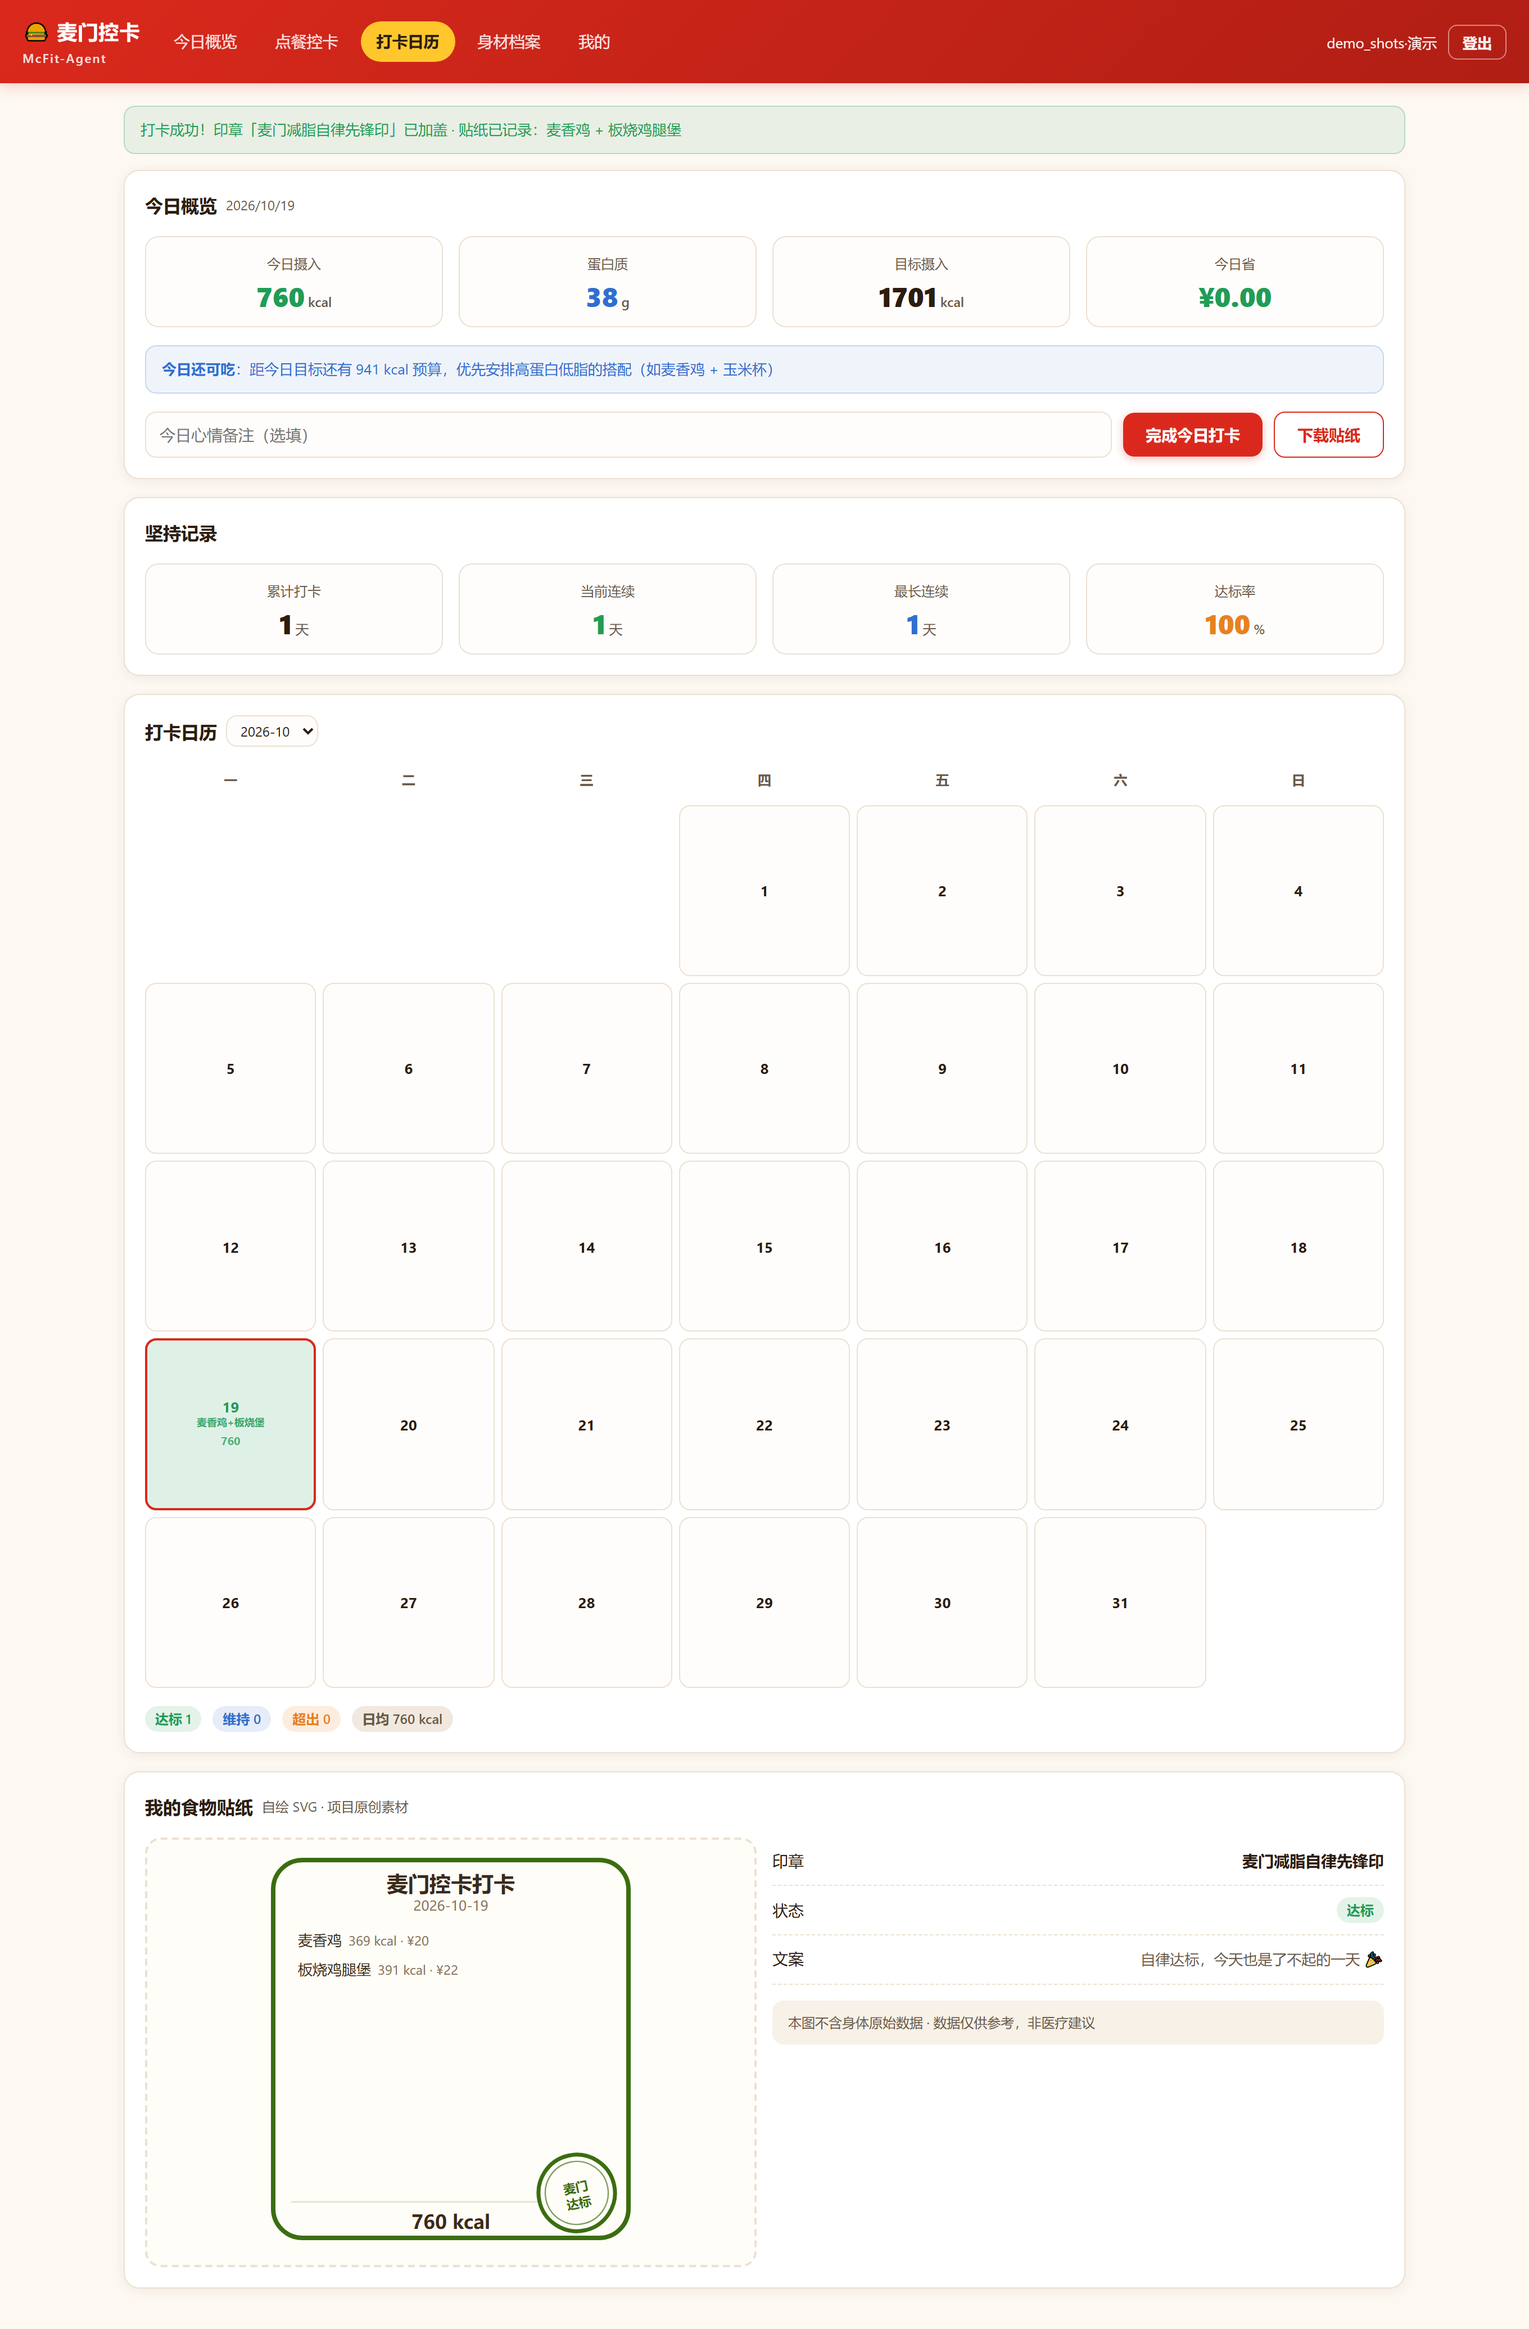
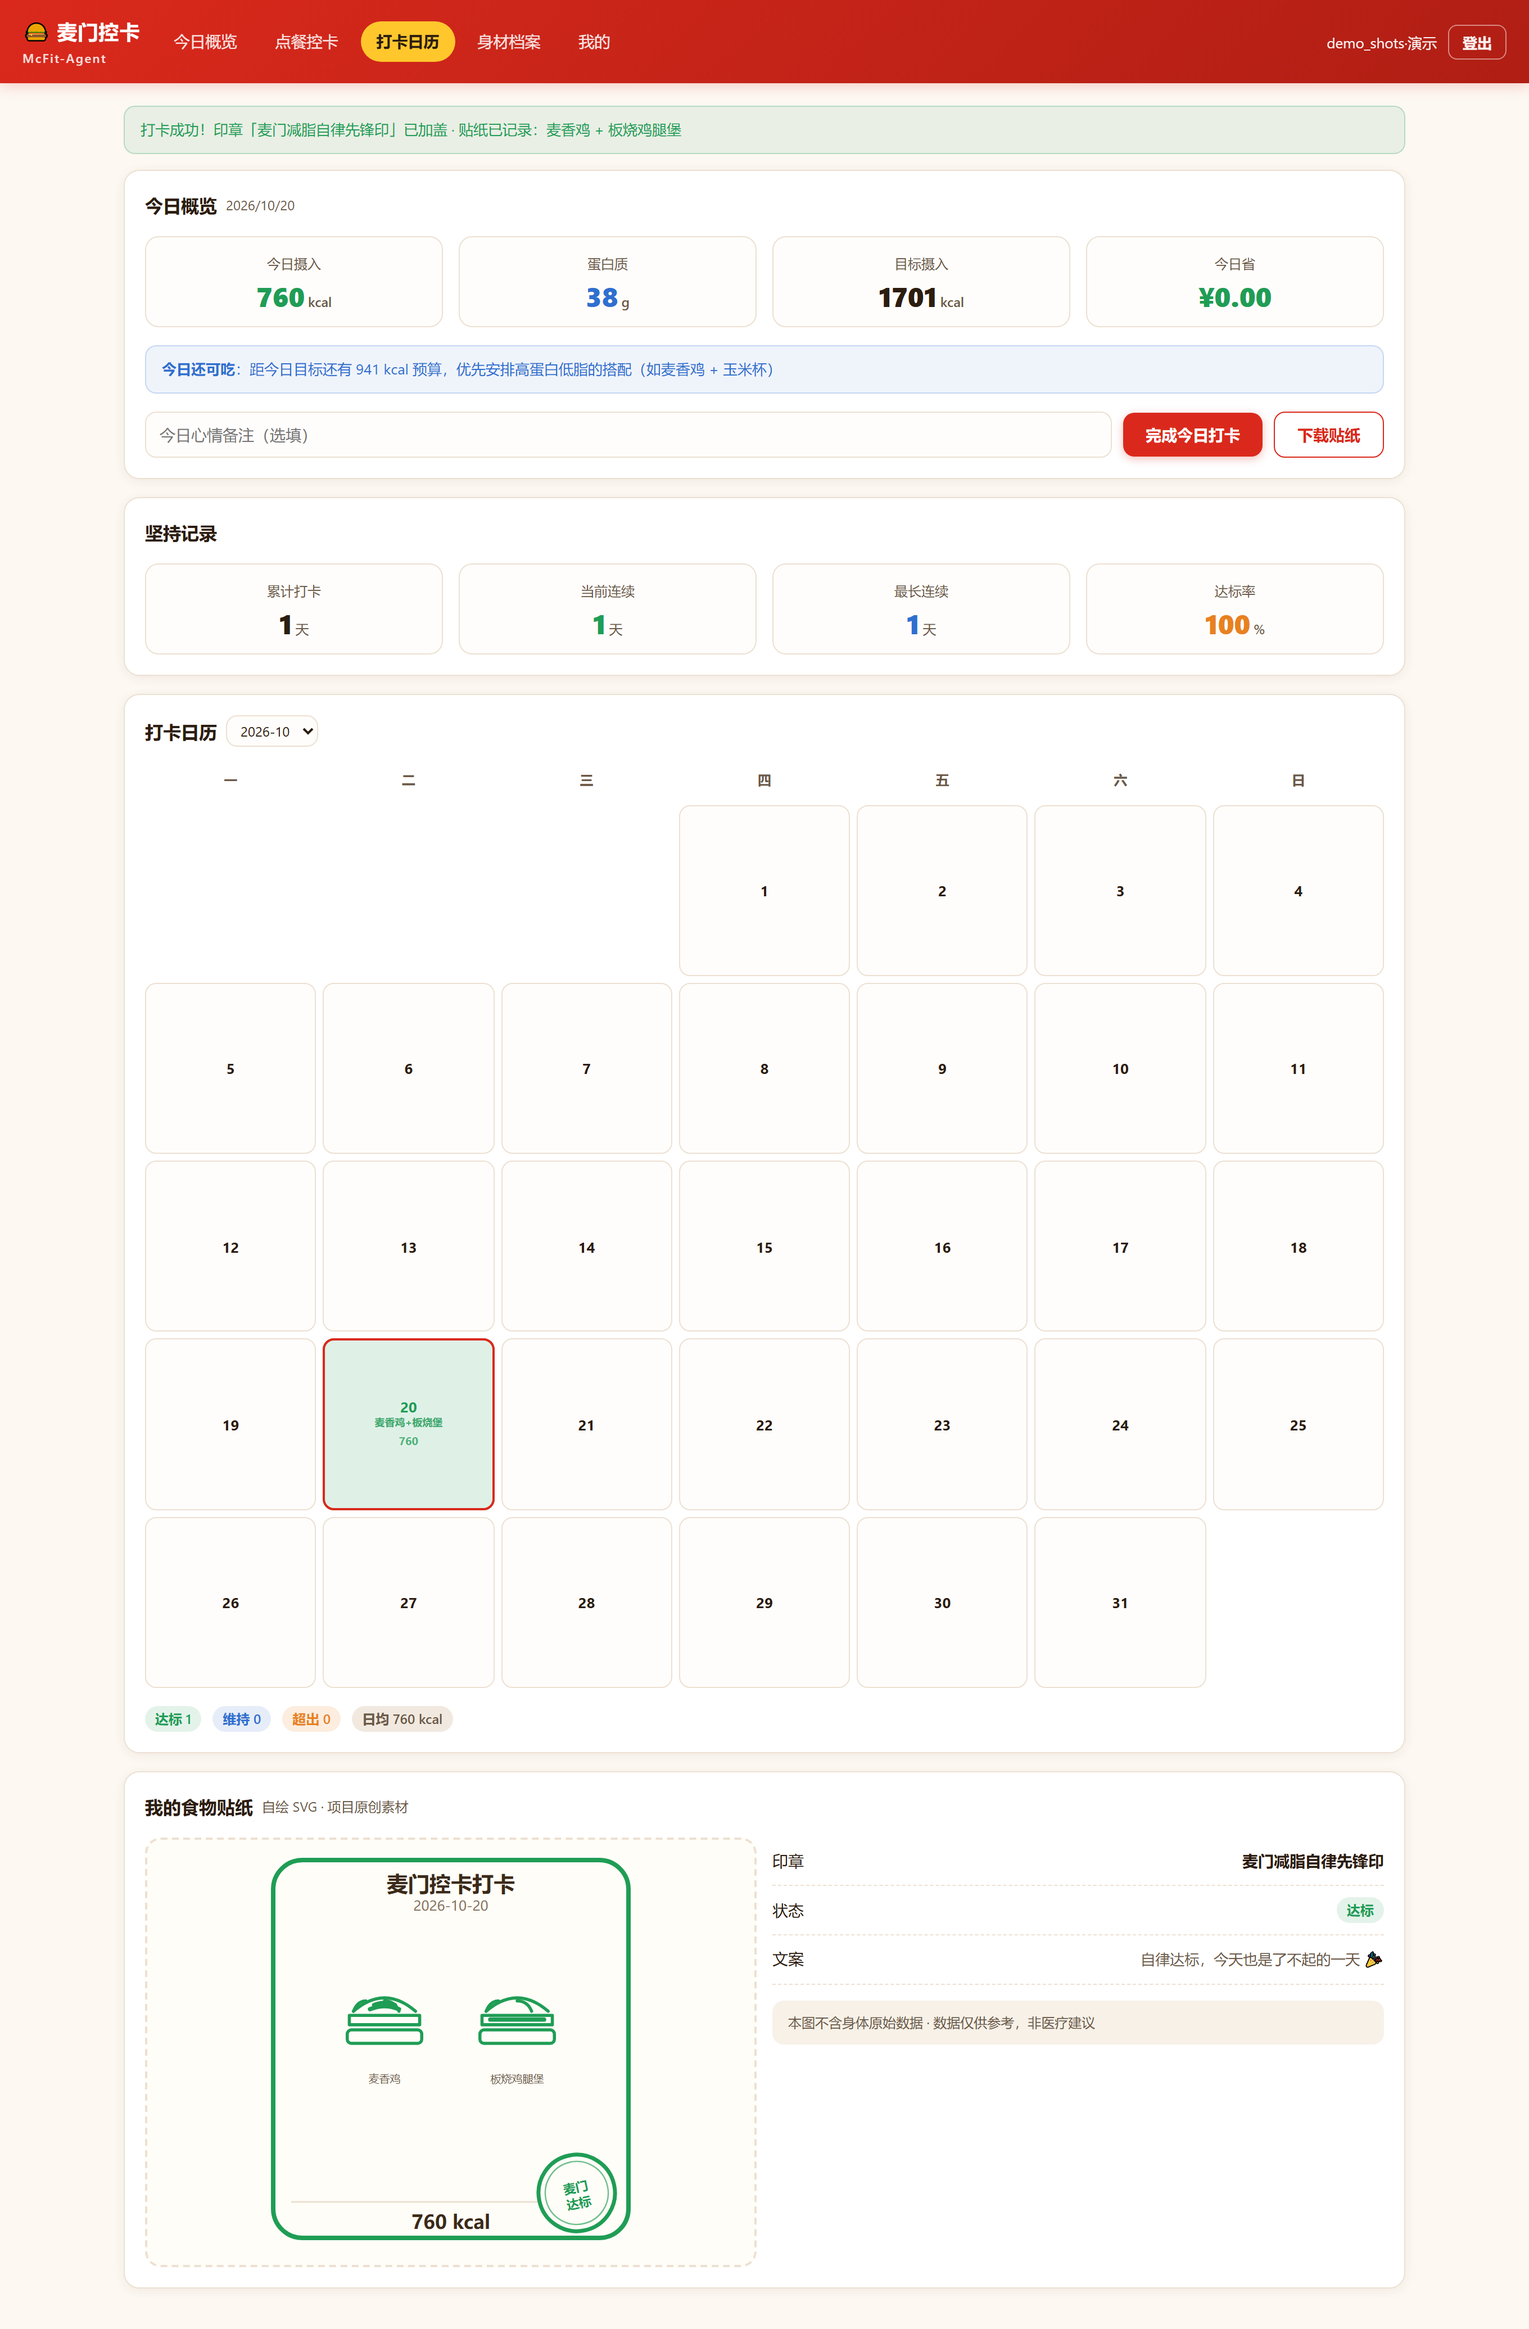
fix: Demo 贴纸补齐自绘食物图标层（对齐后端 sticker_engine）
- sticker.js 从轻量文字版重写为后端 1:1 移植：4 类骨架 + 20 单品特征 + 关键词兜底 + 1/2/3/4 图标排版算法
- 修复 README 截图中贴纸无商品图标的问题（截图已重拍）
- demo 冒烟 10/10 通过

diff --git a/frontend/src/demo/sticker.js b/frontend/src/demo/sticker.js
@@ -1,52 +1,229 @@
 /**
- * Demo 模式贴纸 SVG —— 按 sticker_engine.py 的版式做一个轻量模板版：
- * 320×340 卡片 + 标题/日期 + 餐品行 + 合计热量 + 右下角状态印章。
- * 线条与配色对齐后端输出（#fffdf7 底 / #e8811f 边），全部为项目自绘元素。
+ * Demo 模式贴纸 SVG —— 与后端 sticker_engine.py + icon_library.py 1:1 对齐的移植版。
+ * 320×340 固定画布：标题/日期 + 图标区（最多 4 个自绘食物图标）+ 热量条 + 右下角状态印章。
+ *
+ * 【合规声明】全部为项目内自绘线条简笔图标，严禁使用麦当劳官方 Logo、餐品实拍图或官方物料。
  */
 
-const STAMP_BY_STATUS = {
-  达标: ['麦门', '达标', '#3b6d11'],
-  维持: ['麦门', '维持', '#185fa5'],
-  超标: ['麦门', '超标', '#e8811f'],
+// ── 类别基础骨架（4 类，viewBox 100×100）────────────────────
+const CATEGORY_BASE = {
+  汉堡: [
+    'M20 44 q30-26 60 0',
+    'M16 48 h68 v9 h-68 z',
+    'M18 62 h64 a4 4 0 0 1 4 4 v5 a4 4 0 0 1 -4 4 h-64 a4 4 0 0 1 -4-4 v-5 a4 4 0 0 1 4-4 z',
+    'M20 44 q4-10 12-10 M50 34 q10 0 14 10',
+  ],
+  小食: [
+    'M30 28 h40 l-4 50 a5 5 0 0 1 -5 4 h-22 a5 5 0 0 1 -5-4 z',
+    'M28 28 h44',
+    'M46 28 l6-12',
+  ],
+  甜点: [
+    'M28 48 h44 l-5 30 a5 5 0 0 1 -5 4 h-24 a5 5 0 0 1 -5-4 z',
+    'M28 48 q22-28 44 0',
+    'M26 48 h48',
+  ],
+  饮品: [
+    'M26 34 h38 v44 a6 6 0 0 1 -6 6 h-26 a6 6 0 0 1 -6-6 z',
+    'M24 34 l6-14 h32 l6 14',
+    'M32 20 v-10',
+    'M64 42 h7 a9 9 0 0 1 0 18 h-7',
+  ],
 }
 
-export function buildStickerSvg(date, status, meals, totalKcal) {
-  const rows = (meals || []).slice(0, 7)
-  const startY = 78
-  const rowH = 26
-  const mealText = rows.length
-    ? rows
-        .map((m, i) => {
-          const y = startY + i * rowH
-          return (
-            `<text x="24" y="${y}" font-size="13" fill="#3b2a1a" font-family="sans-serif">${esc(m.name)}` +
-            `<tspan dx="6" font-size="11" fill="#8a7561">${Math.round(m.kcal)} kcal · ¥${m.price}</tspan></text>`
-          )
-        })
-        .join('')
-    : `<text x="160" y="142" text-anchor="middle" font-size="13" fill="#b9a894" font-family="sans-serif">未记录餐品</text>`
+// ── 单品特征细节（叠加在骨架之上）──────────────────────────
+const ITEM_DETAIL = {
+  // 汉堡类：靠「夹心层数 + 顶部配料」区分
+  板烧鸡腿堡: ['M24 52 h52'],
+  麦辣鸡腿汉堡: ['M24 51 h14 M40 51 h14 M56 51 h12'],
+  巨无霸: ['M24 50 h52', 'M24 56 h52'],
+  双层吉士汉堡: ['M24 49 h52', 'M24 58 h52'],
+  麦香鸡: ['M36 42 q14-6 28 0', 'M40 38 q10-4 20 0'],
+  // 小食类：靠杯内物品形状区分
+  麦乐鸡5块: ['M36 46 h28 v14 h-28 z', 'M50 46 v14'],
+  '麦辣鸡翅-2块': ['M34 50 l16-8 12 14-16 8 z'],
+  大杯玉米杯: ['M36 48 h28 l-3 12 h-22 z', 'M42 50 v8 M52 50 v8'],
+  中薯条: ['M36 40 v32 M46 40 v32 M56 40 v32'],
+  脆薯饼: ['M34 50 q16-8 32 0 v12 q-16 8 -32 0 z'],
+  // 甜点类：靠顶部装饰区分
+  菠萝派: ['M38 40 l4-8 4 8', 'M50 40 l4-8 4 8'],
+  香芋派: ['M40 38 q10-6 20 0 v6 q-10 6 -20 0 z'],
+  草莓新地: ['M44 24 l4-10 4 10'],
+  奥利奥麦旋风: ['M40 36 h8 v6 h-8 z', 'M52 36 h8 v6 h-8 z'],
+  圆筒冰淇淋: ['M38 18 h24 l-4 16 h-16 z', 'M46 18 v-8'],
+  // 饮品类：靠杯身内图案区分
+  无糖可口可乐中杯: ['M34 50 h26 M34 62 h26'],
+  可乐中杯: ['M38 52 q6 6 0 12 q6-6 0-12', 'M48 52 q6 6 0 12'],
+  '100%苹果汁': ['M44 54 q8-10 12 0 q4 10-4 10z', 'M48 44 v-8'],
+  '纯牛奶（盒装）': ['M36 52 h24 v18 h-24 z', 'M44 52 l8-8'],
+  冰美式中杯: ['M38 56 h8 v12 h-8 z', 'M52 56 h6 v12 h-6 z'],
+}
 
-  const [t1, t2, color] = STAMP_BY_STATUS[status] || STAMP_BY_STATUS.维持
-  const bottomY = 306
-  const kcalY = rows.length ? Math.max(startY + rows.length * rowH + 14, 268) : 268
+// 类别提示表（单品 → 类别）
+const CATEGORY_HINT = {
+  板烧鸡腿堡: '汉堡', 麦辣鸡腿汉堡: '汉堡', 巨无霸: '汉堡',
+  双层吉士汉堡: '汉堡', 麦香鸡: '汉堡',
+  麦乐鸡5块: '小食', '麦辣鸡翅-2块': '小食', 大杯玉米杯: '小食',
+  中薯条: '小食', 脆薯饼: '小食',
+  菠萝派: '甜点', 香芋派: '甜点', 草莓新地: '甜点',
+  奥利奥麦旋风: '甜点', 圆筒冰淇淋: '甜点',
+  无糖可口可乐中杯: '饮品', 可乐中杯: '饮品', '100%苹果汁': '饮品',
+  '纯牛奶（盒装）': '饮品', 冰美式中杯: '饮品',
+}
 
-  return (
-    `<svg xmlns="http://www.w3.org/2000/svg" viewBox="0 0 320 340" width="320" height="340" role="img" aria-label="${date} 控卡打卡贴纸">` +
-    `<rect x="2" y="2" width="316" height="336" rx="26" fill="#fffdf7" stroke="${color}" stroke-width="4"/>` +
-    `<text x="160" y="30" text-anchor="middle" font-size="19" fill="#3b2a1a" font-family="sans-serif" font-weight="bold">麦门控卡打卡</text>` +
-    `<text x="160" y="47" text-anchor="middle" font-size="12" fill="#8a7561" font-family="sans-serif">${date}</text>` +
-    mealText +
-    `<line x1="18" y1="${bottomY}" x2="302" y2="${bottomY}" stroke="#ece0d2" stroke-width="1.5"/>` +
-    `<text x="160" y="330" text-anchor="middle" font-size="17" fill="#3b2a1a" font-family="sans-serif" font-weight="bold">${Math.round(totalKcal)} kcal</text>` +
-    `<g transform="translate(272,298) rotate(-12)">` +
-    `<circle r="34" fill="#fffdf7" stroke="${color}" stroke-width="3.5"/>` +
-    `<circle r="28" fill="none" stroke="${color}" stroke-width="1.2" opacity="0.65"/>` +
-    `<text y="-1" text-anchor="middle" font-size="11" fill="${color}" font-family="sans-serif" font-weight="bold">${t1}</text>` +
-    `<text y="13" text-anchor="middle" font-size="11" fill="${color}" font-family="sans-serif" font-weight="bold">${t2}</text>` +
-    `</g></svg>`
-  )
+// 兜底：名称未匹配时按关键词猜测，猜不到用汉堡骨架
+const FALLBACK_RULES = [
+  [['麦满分', '堡'], '汉堡'],
+  [['鸡', '翅', '乐鸡', '脆鸡'], '小食'],
+  [['薯', '玉米', '饼', '脆'], '小食'],
+  [['派', '新地', '旋风', '冰淇淋', '雪冰'], '甜点'],
+  [['可乐', '雪碧', '咖啡', '美式', '牛奶', '汁', '茶'], '饮品'],
+]
+
+const GENERIC_DETAIL = ['M44 20 q6-6 12 0', 'M70 46 q4 4 0 8']
+
+export function resolveCategory(name, fallback = '') {
+  if (CATEGORY_HINT[name]) return CATEGORY_HINT[name]
+  for (const [keywords, cat] of FALLBACK_RULES) {
+    if (keywords.some((k) => name.includes(k))) return cat
+  }
+  return fallback || '汉堡'
+}
+
+/** 渲染单个商品图标为 <g> 分组：骨架层 stroke 3 + 特征层 stroke 4.2（缩小后仍可辨）。 */
+function renderIcon(name, category, color, size, x, y) {
+  const cat = category || resolveCategory(name)
+  const base = CATEGORY_BASE[cat] || CATEGORY_BASE.汉堡
+  const detail = ITEM_DETAIL[name] || GENERIC_DETAIL
+  const scale = size / 100.0
+  const tf = `transform="translate(${x.toFixed(2)},${y.toFixed(2)}) scale(${scale.toFixed(4)})"`
+  const layer = (paths, w) =>
+    `<g ${tf} stroke="${color}" stroke-width="${w}" fill="none" stroke-linecap="round" stroke-linejoin="round">` +
+    paths.map((d) => `<path d="${d}"/>`).join('') +
+    `</g>`
+  return layer(base, 3) + layer(detail, 4.2)
+}
+
+// ── 固定画布尺寸（与后端 STICKER_W/H 一致）──────────────────
+const W = 320
+const H = 340
+const MARGIN = 18
+const ICON_TOP = 56 // _HEADER_H(50) + 6
+const ICON_AREA_H = 172
+const KCAL_LINE_H = 34
+const MAX_ICONS = 4
+
+/** 按图标数量返回 (x, y, size)——画布固定，仅内部排布变化：1 居中 / 2 并排 / 3 上二下一 / 4 2×2。 */
+function layout(n) {
+  if (n <= 1) {
+    const s = Math.min(ICON_AREA_H, 130)
+    return [[(W - s) / 2, ICON_TOP + (ICON_AREA_H - s) / 2, s]]
+  }
+  if (n === 2) {
+    const s = 92
+    const gap = 26
+    const x0 = (W - (s * 2 + gap)) / 2
+    const y = ICON_TOP + (ICON_AREA_H - s) / 2
+    return [
+      [x0, y, s],
+      [x0 + s + gap, y, s],
+    ]
+  }
+  if (n === 3) {
+    const s = 72
+    const yTop = ICON_TOP + 4
+    const x0 = (W - (s * 2 + 8)) / 2
+    return [
+      [x0, yTop, s],
+      [x0 + s + 8, yTop, s],
+      [(W - s) / 2, yTop + s + 12, s],
+    ]
+  }
+  const s = 72
+  const gap = 14
+  const x0 = (W - (s * 2 + gap)) / 2
+  const y0 = ICON_TOP + 4
+  return [
+    [x0, y0, s],
+    [x0 + s + gap, y0, s],
+    [x0, y0 + s + 14, s],
+    [x0 + s + gap, y0 + s + 14, s],
+  ]
 }
 
 function esc(s) {
-  return String(s ?? '').replace(/&/g, '&amp;').replace(/</g, '&lt;').replace(/>/g, '&gt;')
+  return String(s ?? '')
+    .replace(/&/g, '&amp;')
+    .replace(/</g, '&lt;')
+    .replace(/>/g, '&gt;')
+    .replace(/"/g, '&quot;')
+}
+
+function shorten(name, n = 7) {
+  name = String(name || '')
+  return name.length <= n ? name : name.slice(0, n) + '…'
+}
+
+const STATUS_COLOR = { 达标: '#1f9d55', 维持: '#2f6fd0', 超标: '#e8811f' }
+
+/**
+ * 生成自绘 SVG 贴纸（版式与后端 build_sticker_svg 完全一致）。
+ * meals: [{name, kcal, price}] —— 必须是真实点单的商品名称。
+ */
+export function buildStickerSvg(date, status, meals, totalKcal) {
+  const color = STATUS_COLOR[status] || STATUS_COLOR.维持
+
+  // 名称去重但保留顺序（同款只贴一次），最多 4 个图标
+  const items = []
+  for (const m of meals || []) {
+    const nm = String((m || {}).name || '').trim()
+    if (!nm || items.some((x) => x.name === nm)) continue
+    items.push({ name: nm, cat: String((m || {}).category || '') || resolveCategory(nm) })
+  }
+  const shown = items.slice(0, MAX_ICONS)
+
+  const p = []
+  p.push(
+    `<svg xmlns="http://www.w3.org/2000/svg" viewBox="0 0 ${W} ${H}" width="${W}" height="${H}" role="img" aria-label="${esc(date)} 控卡打卡贴纸">`
+  )
+  p.push(`<rect x="2" y="2" width="${W - 4}" height="${H - 4}" rx="26" fill="#fffdf7" stroke="${color}" stroke-width="4"/>`)
+  p.push(`<text x="${W / 2}" y="30" text-anchor="middle" font-size="19" fill="#3b2a1a" font-family="sans-serif" font-weight="bold">麦门控卡打卡</text>`)
+  p.push(`<text x="${W / 2}" y="47" text-anchor="middle" font-size="12" fill="#8a7561" font-family="sans-serif">${esc(date)}</text>`)
+
+  if (!shown.length) {
+    p.push(`<text x="${W / 2}" y="${ICON_TOP + ICON_AREA_H / 2}" text-anchor="middle" font-size="13" fill="#b9a894" font-family="sans-serif">未记录餐品</text>`)
+  } else {
+    const slots = layout(shown.length)
+    // 标签跟随各自图标底部（先画标签再画图标，标签不会被图标线条压住）
+    shown.forEach(({ name }, i) => {
+      const [x, y, s] = slots[i]
+      const fs = shown.length >= 2 ? 9.5 : 10.5
+      p.push(`<text x="${(x + s / 2).toFixed(1)}" y="${(y + s + 12).toFixed(1)}" text-anchor="middle" font-size="${fs}" fill="#6b5847" font-family="sans-serif">${esc(shorten(name, 6))}</text>`)
+    })
+    shown.forEach(({ name, cat }, i) => {
+      const [x, y, s] = slots[i]
+      p.push(renderIcon(name, cat, color, s, x, y))
+    })
+    // 超出 4 个时的提示
+    const extra = (meals || []).filter((m) => (m || {}).name).length - shown.length
+    if (extra > 0) {
+      p.push(`<text x="${W - 22}" y="24" text-anchor="middle" font-size="11" fill="${color}" font-family="sans-serif">+${extra}</text>`)
+    }
+  }
+
+  // 底部热量条
+  const barY = H - KCAL_LINE_H
+  p.push(`<line x1="${MARGIN}" y1="${barY}" x2="${W - MARGIN}" y2="${barY}" stroke="#ece0d2" stroke-width="1.5"/>`)
+  p.push(`<text x="${W / 2}" y="${barY + 24}" text-anchor="middle" font-size="17" fill="#3b2a1a" font-family="sans-serif" font-weight="bold">${Math.round(totalKcal)} kcal</text>`)
+
+  // 状态印章（固定右下角，纯文字圆章——与后端一致）
+  const sx = W - 48
+  const sy = H - 42
+  p.push(`<g transform="translate(${sx},${sy}) rotate(-12)">`)
+  p.push(`<circle r="34" fill="#fffdf7" stroke="${color}" stroke-width="3.5"/>`)
+  p.push(`<circle r="28" fill="none" stroke="${color}" stroke-width="1.2" opacity="0.65"/>`)
+  p.push(`<text y="-1" text-anchor="middle" font-size="11" fill="${color}" font-family="sans-serif" font-weight="bold">麦门</text>`)
+  p.push(`<text y="13" text-anchor="middle" font-size="11" fill="${color}" font-family="sans-serif" font-weight="bold">${esc(status)}</text>`)
+  p.push('</g></svg>')
+  return p.join('')
 }
